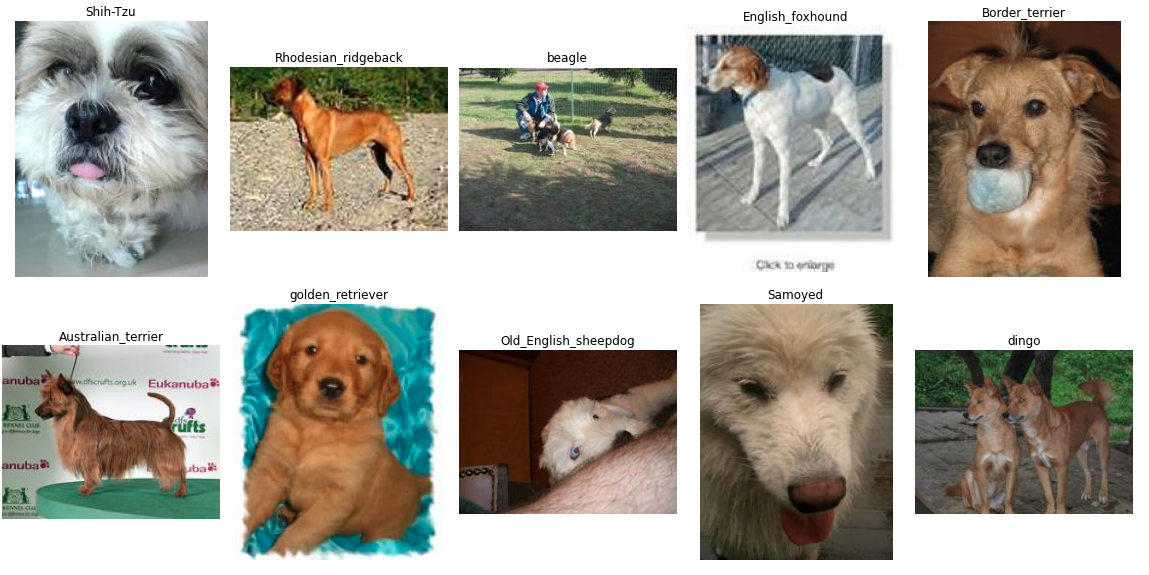
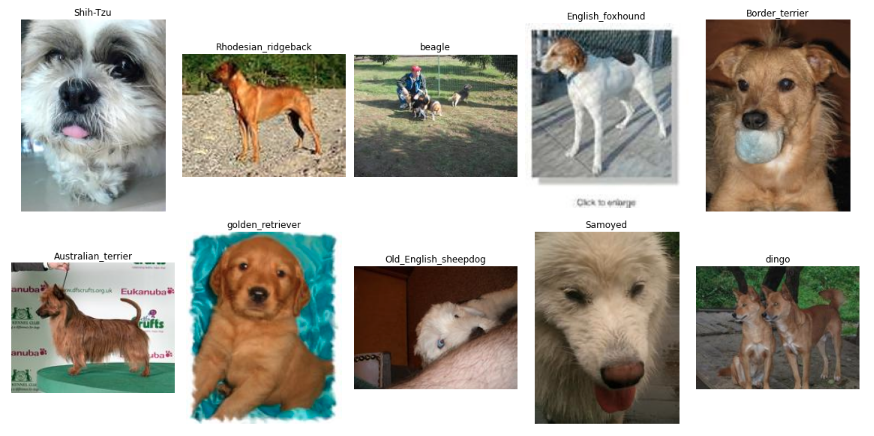
semi-final

diff --git a/README.md b/README.md
@@ -44,7 +44,7 @@ python3 train.py /path/to/config
   * [Imagewoof](https://github.com/fastai/imagenette#imagewoof)
 > Imagewoof is a subset of 10 classes from Imagenet that aren't so easy to classify, since they're all dog breeds. The breeds are: Australian terrier, Border terrier, Samoyed, Beagle, Shih-Tzu, English foxhound, Rhodesian ridgeback, Dingo, Golden retriever, Old English sheepdog. 
 
-<img height="250" src="data/examples/classes.png" width="500"/>
 
+![](data/examples/classes.png)
 ### Experimental results:
 ....
